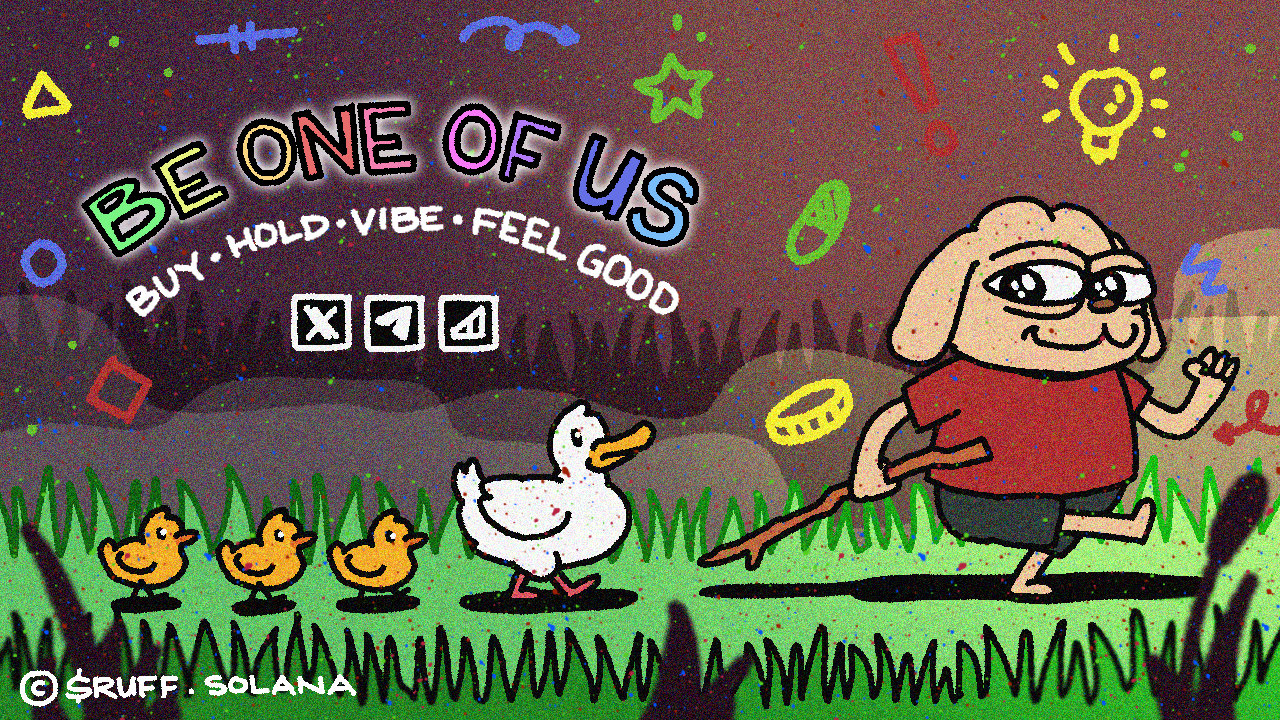
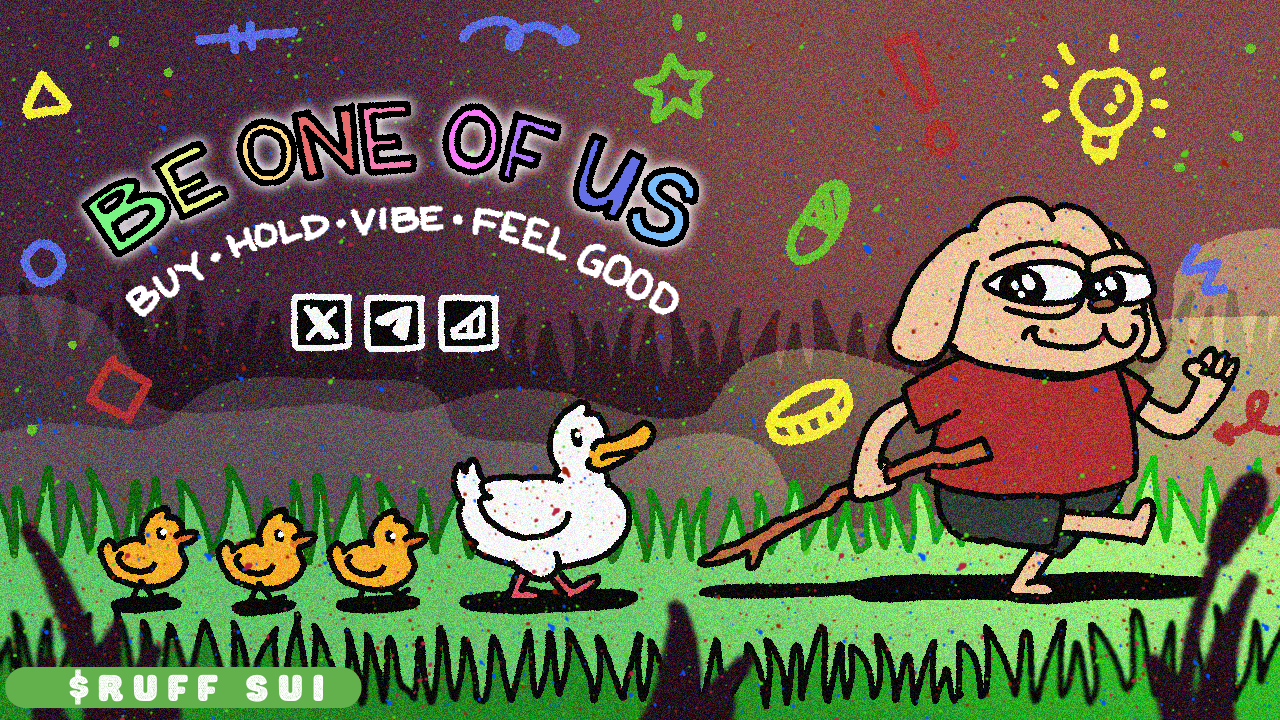
fix

Changed region(s): [[0.0, 0.9167, 0.2812, 1.0]]

diff --git a/index.html b/index.html
@@ -20,11 +20,11 @@
             <div class="max-w-[1600px] mx-auto flex items-center justify-between gap-12 md:flex-row flex-col my-auto">
                 <div>
                     <img src="images/TITLE.png" alt="Title">
-                    <a href><img src="images/BUY.png" class="mx-auto" alt="Buy"></a>
+                    <a href="https://movepump.com/token/"><img src="images/BUY.png" class="mx-auto" alt="Buy"></a>
                     <div class="flex justify-center items-center gap-3 mt-8">
-                        <a href="https://x.com/RUFFRUFFSOL"><img src="images/X.png" alt="X"></a>
-                        <a href="https://t.me/ruffruffportal"><img src="images/TG.png" alt="TG"></a>
-                        <a href><img src="images/CHART.png" alt="CHART"></a>
+                        <a href="https://x.com/RUFFRUFF_Sui"><img src="images/X.png" alt="X"></a>
+                        <a href="https://t.me/RUFFRUFF_Sui"><img src="images/TG.png" alt="TG"></a>
+                        <a href="https://movepump.com/token/"><img src="images/CHART.png" alt="CHART"></a>
                     </div>
                 </div>
 
@@ -39,8 +39,8 @@
 
         <div class="relative w-full h-auto bg-cover bg-center img-3">
             <div class="button-container">
-                <a href="https://x.com/RUFFRUFFSOL" class="tw bg-transparent md:w-16 md:h-16 w-6 h-6"></a>
-                <a href="https://t.me/ruffruffportal" class="tg bg-transparent md:w-16 md:h-16 w-6 h-6"></a>
+                <a href="https://x.com/RUFFRUFF_Sui" class="tw bg-transparent md:w-16 md:h-16 w-6 h-6"></a>
+                <a href="https://t.me/RUFFRUFF_Sui" class="tg bg-transparent md:w-16 md:h-16 w-6 h-6"></a>
                 <a href="#" class="ch bg-transparent md:w-16 md:h-16 w-6 h-6"></a>
             </div>
         </div>
